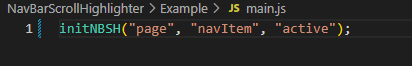
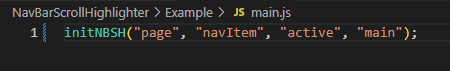
Added relative scroll element to initNBSH

diff --git a/NavBarScrollHighlighter/Example/index.html b/NavBarScrollHighlighter/Example/index.html
@@ -11,34 +11,37 @@
 </head>
 
 <body>
-    <nav>
-        <div class="nav__items">
-            <a class="navItem" href="#1">Page 1</a>
-            <a class="navItem" href="#2">Page 2</a>
-            <a class="navItem" href="#3">Page 3</a>
-            <a class="navItem" href="#4">Page 4</a>
-            <a class="navItem" href="#5">Page 5</a>
-            <a class="navItem" href="#6">Page 6</a>
+    <main id="main">
+        <nav>
+            <div class="nav__items">
+                <a class="navItem" href="#1">Page 1</a>
+                <a class="navItem" href="#2">Page 2</a>
+                <a class="navItem" href="#3">Page 3</a>
+                <a class="navItem" href="#4">Page 4</a>
+                <a class="navItem" href="#5">Page 5</a>
+                <a class="navItem" href="#6">Page 6</a>
+            </div>
+        </nav>
+        <div id="1" style="color: black;" class="page">
+            <h1>Page 1</h1>
         </div>
-    </nav>
-    <div id="1" style="color: black;" class="page">
-        <h1>Page 1</h1>
-    </div>
-    <div id="2" style="height: 300vh; background-color: #EF9595;" class="page">
-        <h1>Page 2</h1>
-    </div>
-    <div id="3" style="background-color: #EFB495;" class="page">
-        <h1>Page 3</h1>
-    </div>
-    <div id="4" style="background-color: #EFD595;" class="page">
-        <h1>Page 4</h1>
-    </div>
-    <div id="5" style="background-color: #EBEF95;" class="page">
-        <h1>Page 5</h1>
-    </div>
-    <div id="6" style="background-color: #EF9595;" class="page">
-        <h1>Page 6</h1>
-    </div>
+        <div id="2" style="height: 300vh; background-color: #EF9595;" class="page">
+            <h1>Page 2</h1>
+        </div>
+        <div id="3" style="background-color: #EFB495;" class="page">
+            <h1>Page 3</h1>
+        </div>
+        <div id="4" style="background-color: #EFD595;" class="page">
+            <h1>Page 4</h1>
+        </div>
+        <div id="5" style="background-color: #EBEF95;" class="page">
+            <h1>Page 5</h1>
+        </div>
+        <div id="6" style="background-color: #EF9595;" class="page">
+            <h1>Page 6</h1>
+        </div>
+    </main>
+
 </body>
 
 </html>

diff --git a/NavBarScrollHighlighter/NavBarScrollHighlighter.js b/NavBarScrollHighlighter/NavBarScrollHighlighter.js
@@ -14,12 +14,17 @@ var pages;
 var activeNavItem;
 var navItems;
 var activeNavBarClassName;
+var relativeTo;
 
-function initNBSH(pageClassName, navBarItemClassName, activeNavBarClassName) {
+function initNBSH(pageClassName, navBarItemClassName, activeNavBarClassName, relativeToId) {
     this.activeNavBarClassName = activeNavBarClassName;
+    this.relativeTo = document.getElementById(relativeToId);
+    this.relativeTo.addEventListener("scroll", () => {
+        handleScroll();
+    });
     registerPages(pageClassName);
     registerNavItems(navBarItemClassName);
-    onscroll();
+    handleScroll();
 }
 
 function registerNavItems(className) {
@@ -44,17 +49,17 @@ function setActivePage(navItemIndex) {
     activeNavItem.classList.add(activeNavBarClassName);
 }
 
-onscroll = () => {
+function handleScroll() {
     for (let pageIndex = 0; pageIndex < pages.length; pageIndex++) {
-
-        var rect = pages[pageIndex].getBoundingClientRect();
-        var staticTop = rect.top + window.scrollY;
-        var staticBottom = rect.bottom + window.scrollY;
-        var centerOfView = window.scrollY + (window.innerHeight / 2);
-
+        var relativeRect = relativeTo.getBoundingClientRect()
+        var targetRect = pages[pageIndex].getBoundingClientRect();
+        var staticTop = targetRect.top - relativeRect.top + relativeTo.scrollTop;
+        var staticBottom = targetRect.bottom - relativeRect.top + relativeTo.scrollTop;
+        var centerOfView = relativeTo.scrollTop + (window.innerHeight / 2);
+        console.log(pageIndex + " relative rect" + relativeRect)
         if (centerOfView > staticTop && centerOfView < staticBottom) {
             setActivePage(pageIndex);
             break;
         }
     }
-};
+}

diff --git a/NavBarScrollHighlighter/Example/style.css b/NavBarScrollHighlighter/Example/style.css
@@ -7,6 +7,14 @@
 
 html {
     scroll-behavior: smooth;
+    max-height: 100vh;
+    overflow-y: hidden;
+}
+
+main {
+    max-height: 100vh;
+
+    overflow-y: scroll;
 }
 
 .page {

diff --git a/NavBarScrollHighlighter/Example/main.js b/NavBarScrollHighlighter/Example/main.js
@@ -1,1 +1,1 @@
-initNBSH("page", "navItem", "active");
+initNBSH("page", "navItem", "active", "main");

diff --git a/README.md b/README.md
@@ -20,7 +20,7 @@
 
   ### Usage
   
-  1. add *initNBSH function(\<page class name\>, \<nav link class name\>, \<nav link active class name\>)* to your JS script
+  1. add *initNBSH function(\<page class name\>, \<nav link class name\>, \<nav link active class name\>, \<id of element that is being scrolled\>)* to your JS script
 
       ![alt text](/mdImages/NBSH-1.png)
 
